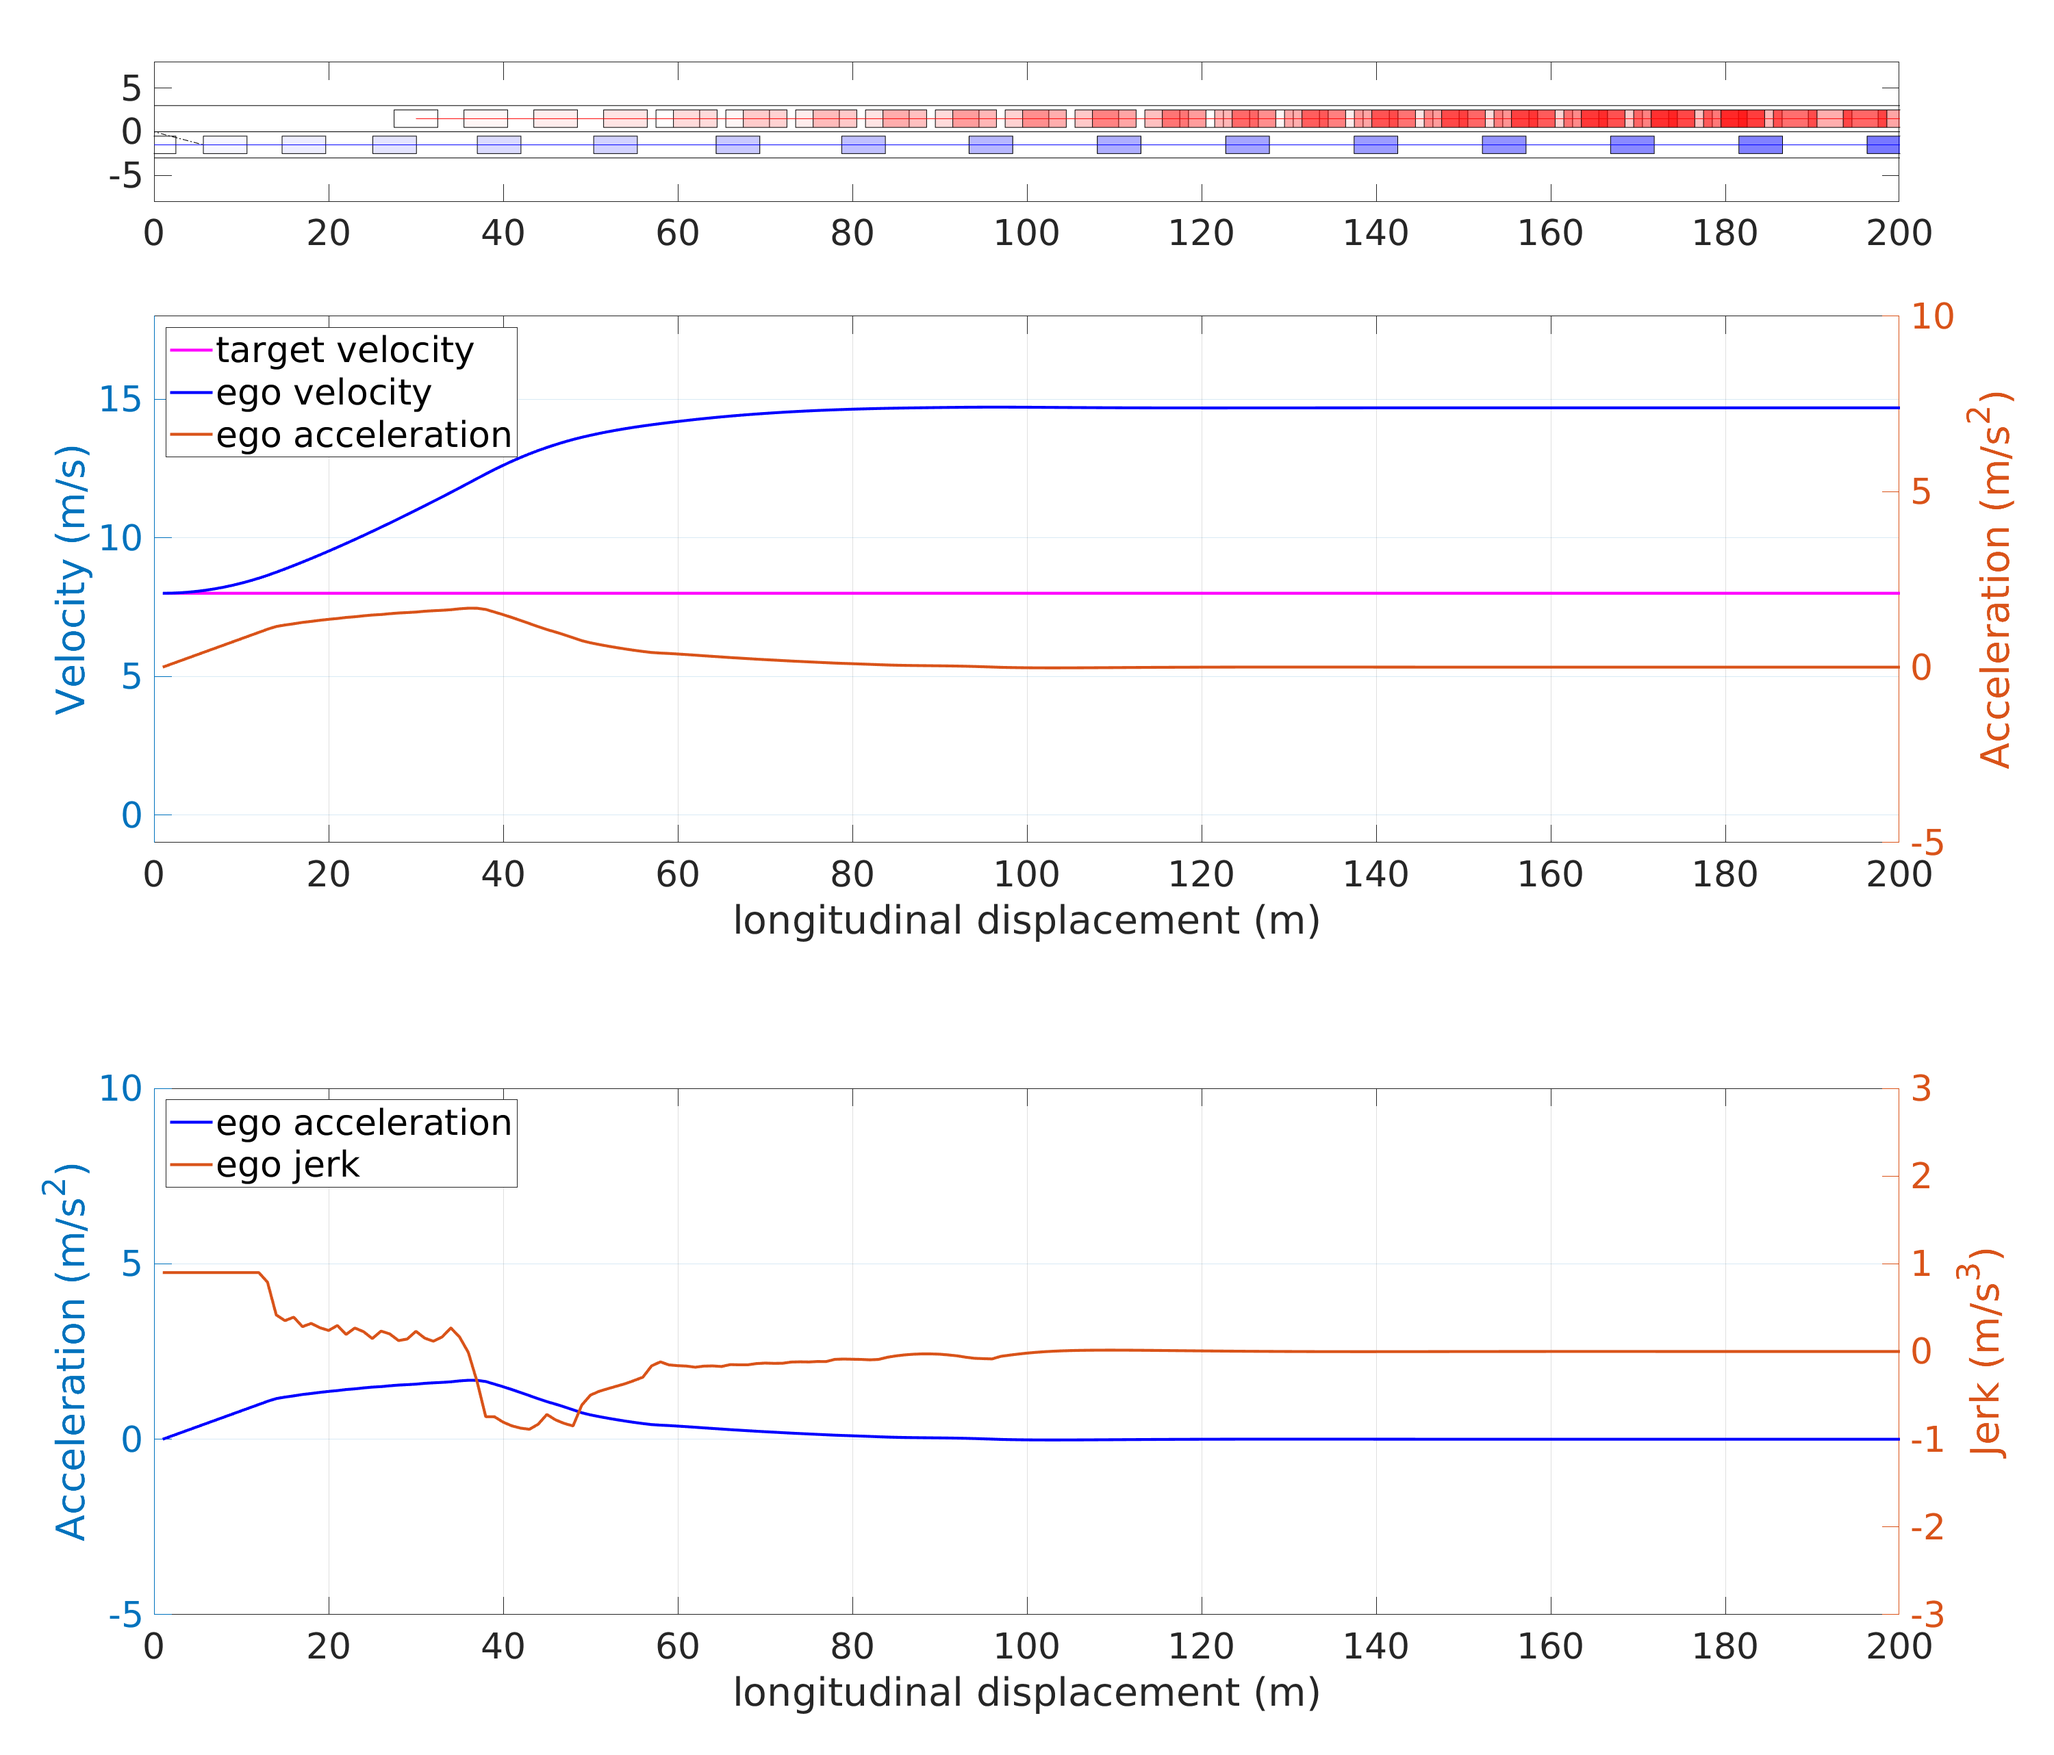
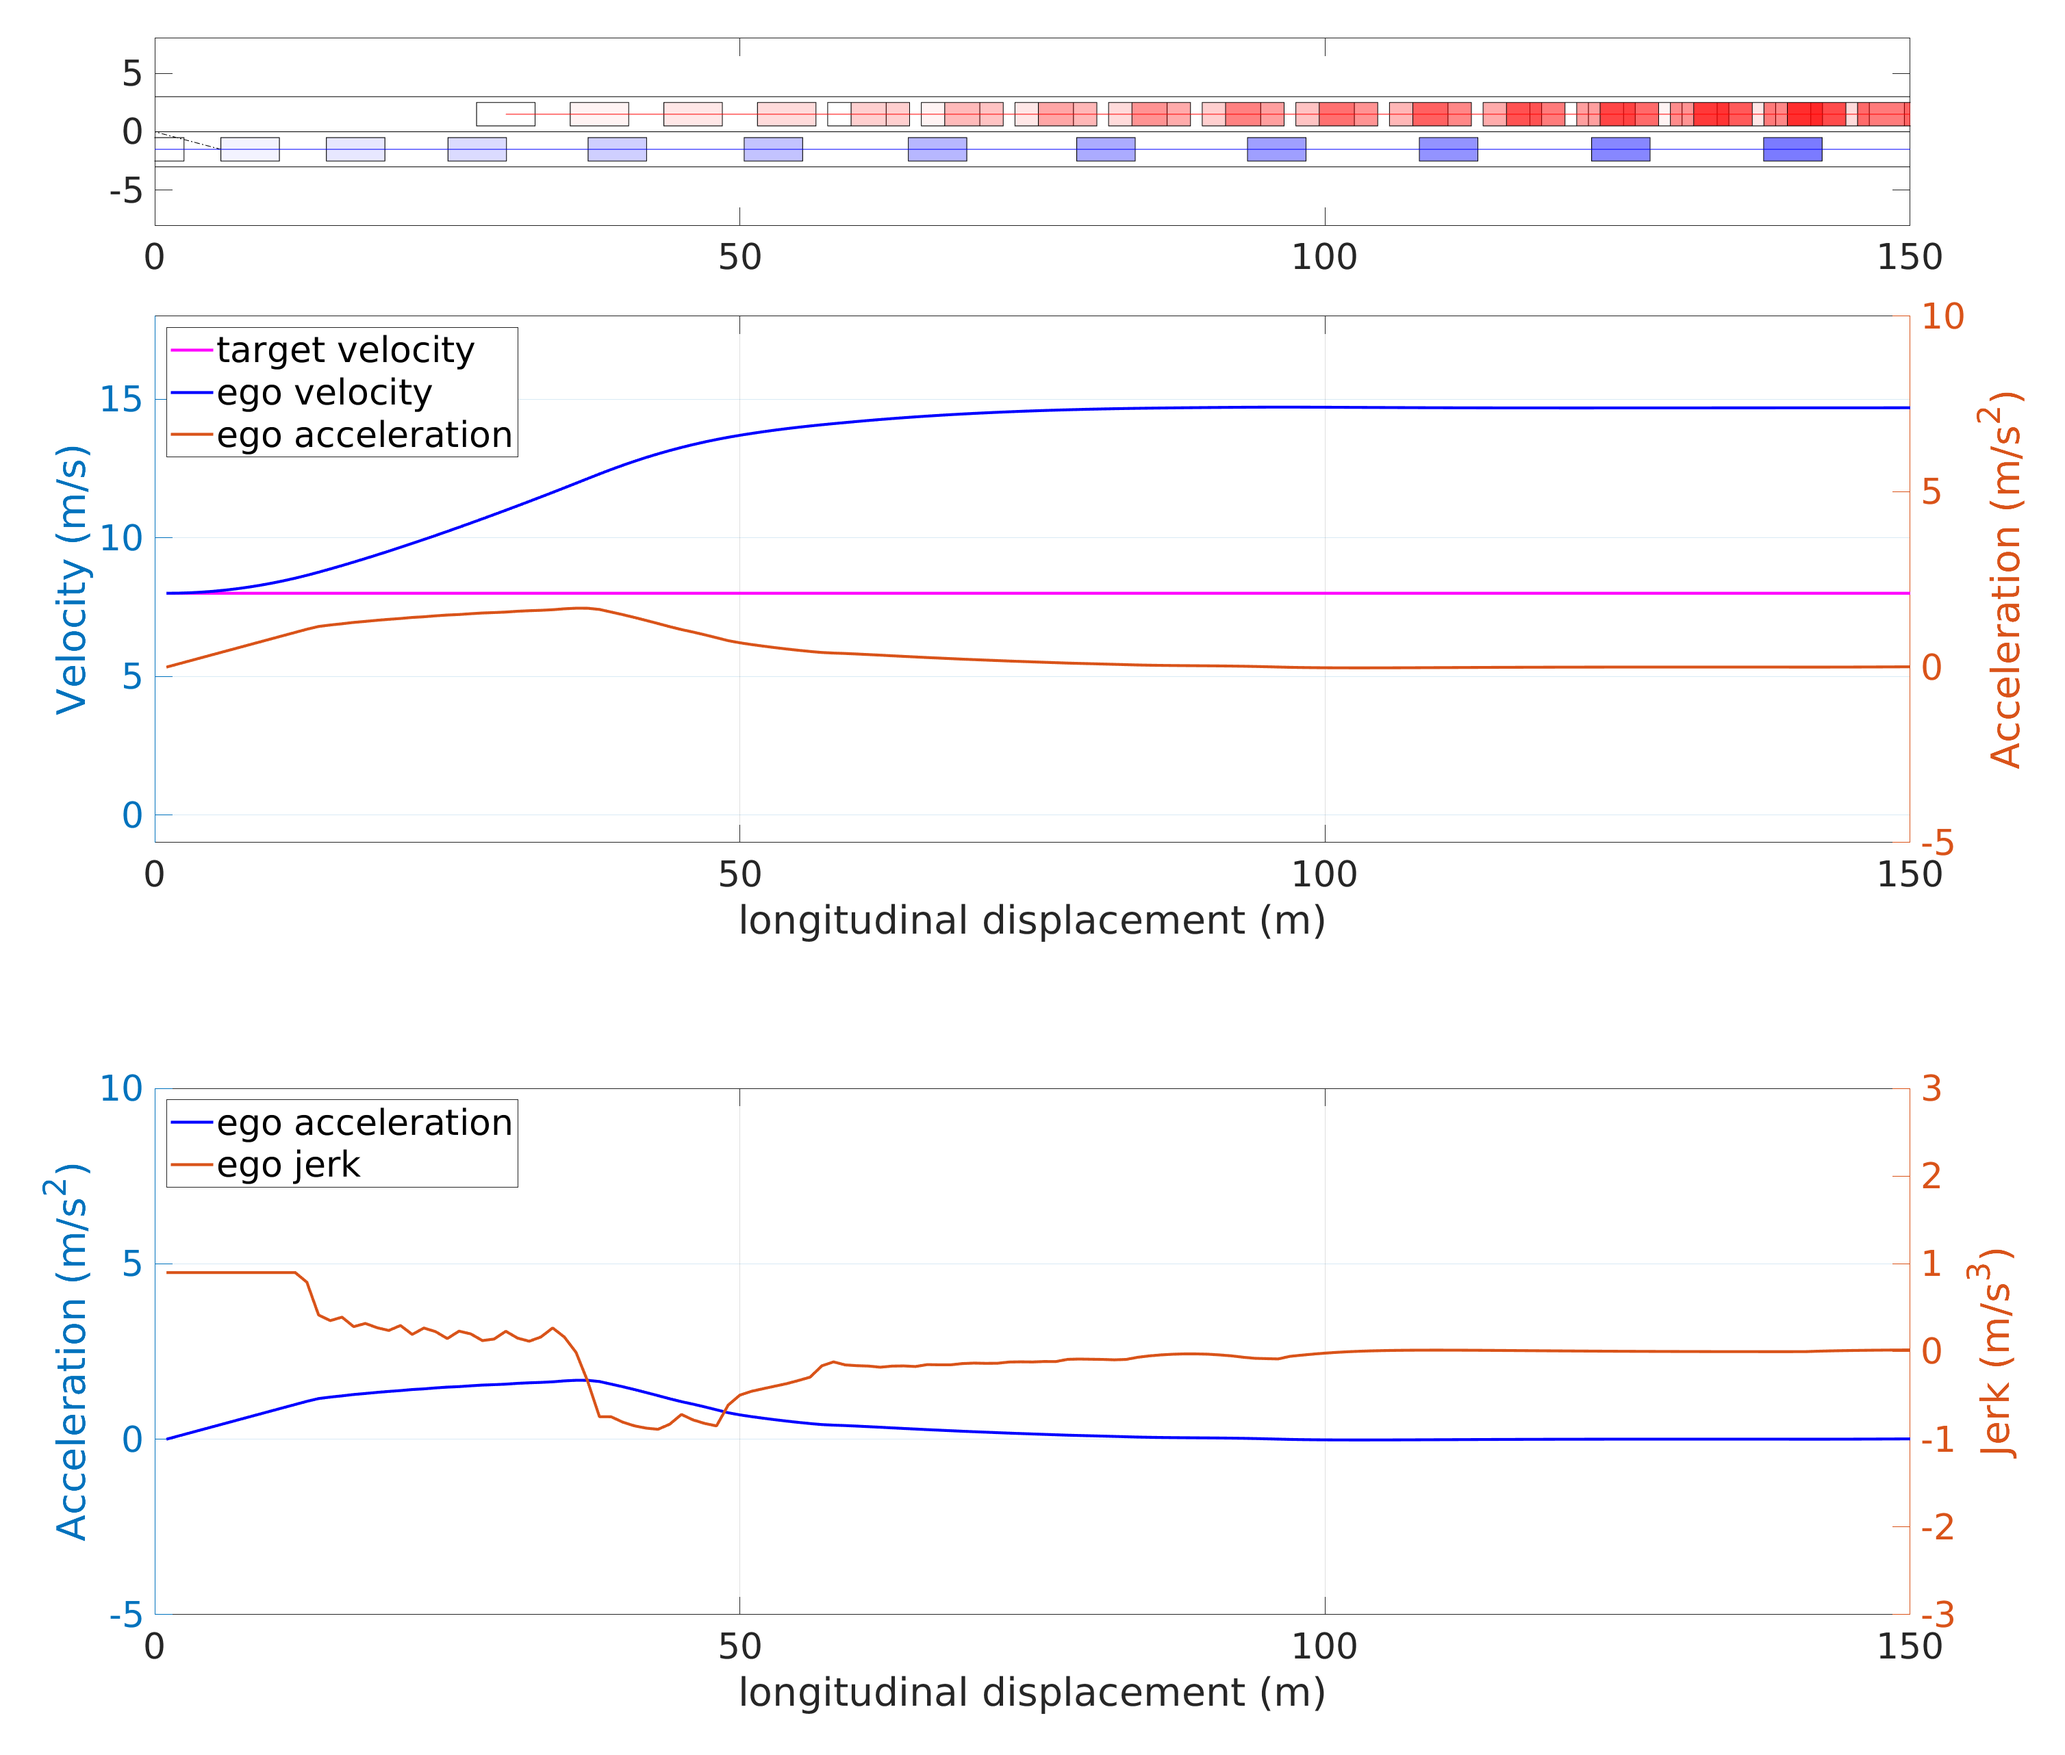
new visualization features are added

diff --git a/iLQR.m b/iLQR.m
@@ -51,7 +51,7 @@ global T_horizon
 global dt           
 global t_switch
 
-T = 30;             ... total job length%Omid it was 20 previously
+T = 15;             ... total job length%Omid it was 20 previously
 T_horizon = 4;      ... sliding horizon length
 dt = 0.1;           ... discretization time
 t_switch = 0.5;     ... 
@@ -442,7 +442,6 @@ y = zeros(numberOfFrames, 5);
 % obstacle coordinates
 x_obs = zeros(numberOfFrames + 1, 5, length(OBS));
 y_obs = zeros(numberOfFrames + 1, 5, length(OBS));
-
 for i = 1 : numberOfFrames
 %     x(i,:) = inflated_car_state(1,:,i);
 %     y(i,:) = inflated_car_state(2,:,i);
@@ -488,12 +487,14 @@ end
 car_vert = [reshape(x(:,1:4), 1,4,[]); reshape(y(:,1:4), 1,4,[])];
 %% GIF
 plot_gif = 1;
+pOBS = zeros(5, length(OBS));
 
 
 if plot_gif == 1
     figure()
     delay = 0.1;
     for i = 1 : numberOfFrames
+%         P1=0;P2=0;P3=0;P4=0;P5=0;P6=0;
         % draw car
         r = plot(x(i,:),y(i,:),'k');
         hold on
@@ -507,6 +508,33 @@ if plot_gif == 1
         for j = 1:length(OBS)
             obs_rec(j) = plot(x_obs(i,:,j), y_obs(i,:,j),'m','LineWidth', 1);
             hold on
+            if cut_in_traj(1,i,j)<NUM_TOTAL+50
+            if ((cut_in_traj(2,i,j)==(road_up_lim-Lane_size/2.))) 
+
+            pOBS(1,j)=text(cut_in_traj(1,i,j)-3,cut_in_traj(2,i,j)+10, '\DeltaV=' );
+            hold on
+            pOBS(2,j)=text(cut_in_traj(1,i,j)+3,cut_in_traj(2,i,j)+10, num2str(cut_in_traj(4,i,j)-vref_road) );
+            hold on
+            pOBS(3,j)=text(cut_in_traj(1,i,j)-3,cut_in_traj(2,i,j)+8, '\DeltaX(1)=' );
+            hold on
+            pOBS(4,j)=text(cut_in_traj(1,i,j)+5,cut_in_traj(2,i,j)+8, num2str(cut_in_traj(1,i,j)-X_planned(1,i),4) );
+            hold on
+            pOBS(5,j)=text(cut_in_traj(1,i,j)-2,cut_in_traj(2,i,j)+5, '\downarrow' );
+            hold on
+            else
+            pOBS(1,j)=text(cut_in_traj(1,i,j)-3,cut_in_traj(2,i,j)-10, '\DeltaV=' );
+            hold on
+            pOBS(2,j)=text(cut_in_traj(1,i,j)+3,cut_in_traj(2,i,j)-10, num2str(cut_in_traj(4,i,j)-vref_road) );
+            hold on
+            pOBS(3,j)=text(cut_in_traj(1,i,j)-3,cut_in_traj(2,i,j)-8, '\DeltaX(1)=' );
+            hold on
+            pOBS(4,j)=text(cut_in_traj(1,i,j)+5,cut_in_traj(2,i,j)-8, num2str(cut_in_traj(1,i,j)-X_planned(1,i),4) );
+            hold on
+            pOBS(5,j)=text(cut_in_traj(1,i,j)-2,cut_in_traj(2,i,j)-5, '\uparrow' );
+            hold on
+            end
+            end
+            
         end
         if length(OBS)==0
             obs_rec=0;
@@ -552,7 +580,7 @@ if plot_gif == 1
     %         lp = plot(obs_long(1,:,i), obs_long(2,:,i), 'c*');
         end
 
-        xlim([0 350]); ylim([(road_low_lim-2) (road_up_lim+2)]);
+        xlim([0 (NUM_TOTAL+50)]); ylim([(road_low_lim-15) (road_up_lim+15)]);
         xlabel('x(m)', 'FontSize', 25); ylabel('y(m)', 'FontSize', 25);
     %     legend('vehicle','planned','ref','obstacle','planning horizon','Location','best');
 
@@ -576,7 +604,13 @@ if plot_gif == 1
               imwrite(imind,cm,'test.gif','gif','WriteMode','append', 'DelayTime', delay);
           end
 
-        delete(p)
+        delete(p);
+        
+        for j = 1:length(OBS)
+            if cut_in_traj(1,i,j)<NUM_TOTAL+50
+            delete(pOBS(1,j));delete(pOBS(2,j));delete(pOBS(3,j));delete(pOBS(4,j));delete(pOBS(5,j));
+            end
+        end
     %     delete(o)
         delete(r)
         if length(OBS)~=0
@@ -598,7 +632,7 @@ figure()
 subplot(3, 1, 1);
 interval = 10;
 i0 = 1;
-it = 200;
+it = NUM_TOTAL;
 % environment visualizations
 plot(side_lane(:,1),side_lane(:,2)+6,'--r');  
 hold on
@@ -649,7 +683,7 @@ for k = 1:length(OBS)
 end
 
 axis equal
-xlim([0 200]); % B2
+xlim([0 NUM_TOTAL]); % B2
 ylim([-8 8]);
 % % set plot position
 % x0 = 0;
@@ -673,7 +707,7 @@ ylim([-1 18])
 yyaxis right
 plot(X_planned(3,:), 'LineWidth', 2);
 ylabel('Acceleration (m/s^2)', 'FontSize', 25);
-xlim([0 200]);
+xlim([0 NUM_TOTAL]);
 ylim([-5 10])
 grid on
 legend('target velocity', 'ego velocity', 'ego acceleration', 'FontSize',25, 'Location', 'northwest');
@@ -689,7 +723,7 @@ ylim([-5 10])
 yyaxis right
 plot(U_planned(1,:), 'LineWidth', 2);
 ylabel('Jerk (m/s^3)', 'FontSize', 25);
-xlim([0 200]);
+xlim([0 NUM_TOTAL]);
 ylim([-3 3])
 grid on
 legend('ego acceleration', 'ego jerk', 'FontSize',25, 'Location', 'northwest');
